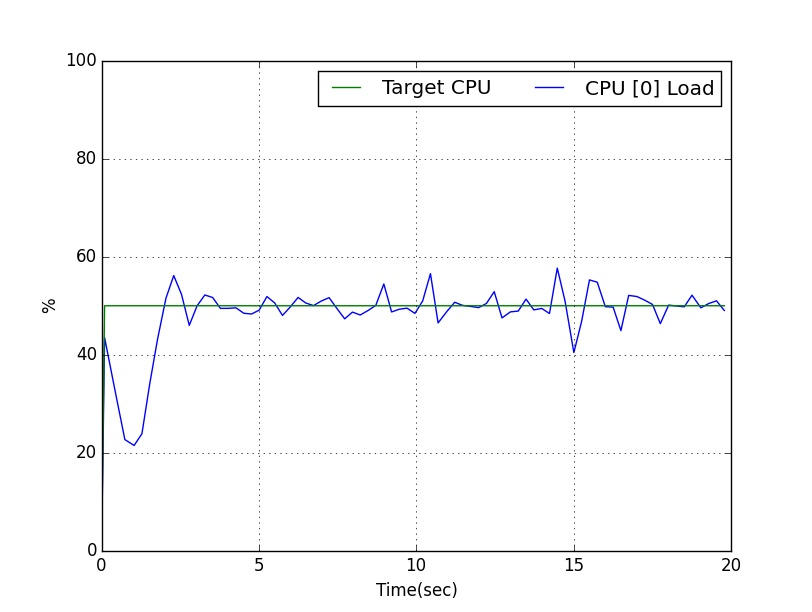
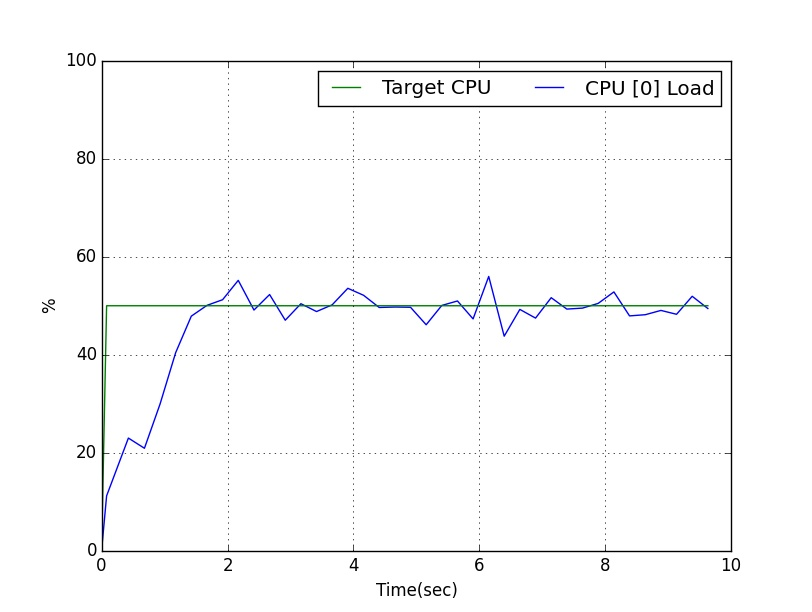
adding new fig

diff --git a/utils/Controller.py b/utils/Controller.py
@@ -12,11 +12,11 @@ class ControllerThread(threading.Thread):
         self.running = 1;  # thread status
         self.sampling_interval = interval
         self.period = 0.1 # actuation period  in seconds
-        self.sleepTime = 0.05; # this is controller output: determines the sleep time to achieve the requested CPU load
+        self.sleepTime = 0.02; # this is controller output: determines the sleep time to achieve the requested CPU load
         self.alpha = 0.2; # filter coefficient
         self.CT = 0.20;  # target CPU load should be provided as input 
-        self.cpu = 50;   # current CPU load returned from the Monitor thread
-        self.cpuPeriod = 0.00;
+        self.cpu = 0;   # current CPU load returned from the Monitor thread
+        self.cpuPeriod = 0.03;
         if ki is None:
           self.ki = 0.2 #-0.005;   # integral constant of th PI regulator (the plant is an inverter)
         if kp is None:

diff --git a/CPULoadGenerator.py b/CPULoadGenerator.py
@@ -49,7 +49,6 @@ if __name__ == "__main__":
             sys.exit(1)
     
     monitor = MonitorThread(options['cpu_core'], 0.1)
-    monitor.setSleepTime(0)
     monitor.start()
 
     control = ControllerThread(0.1)
